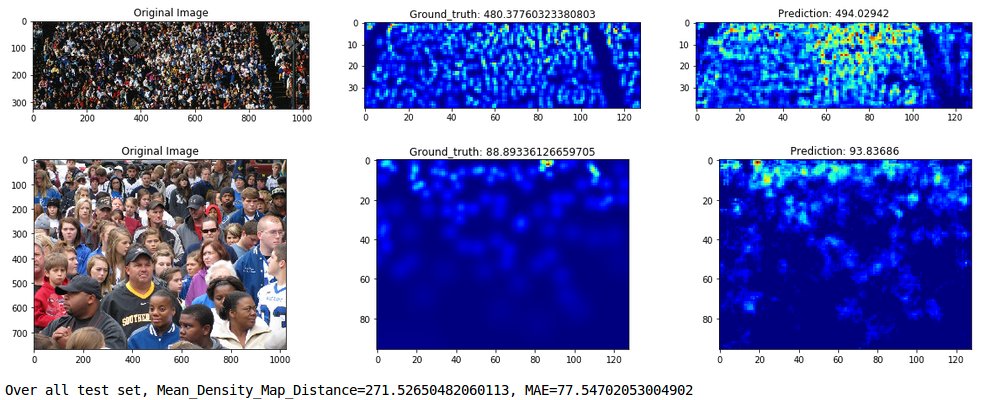
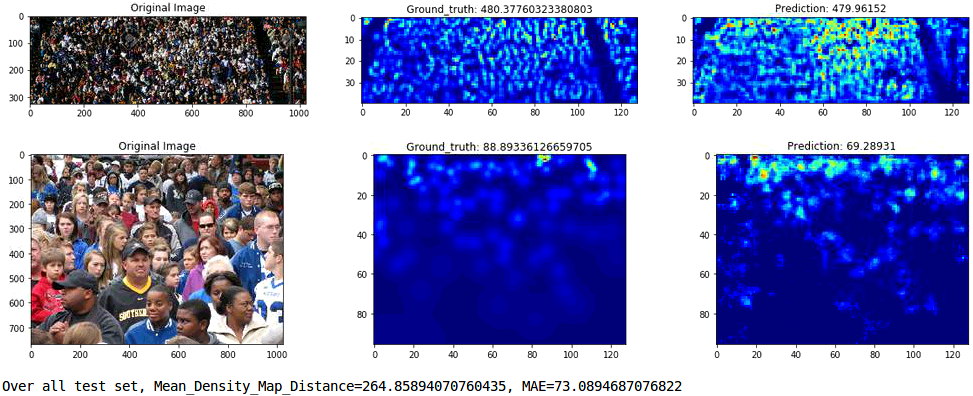
Well trained model on dataset B, while that on dataset A still needs improving

diff --git a/README.md b/README.md
@@ -39,7 +39,9 @@
 
 ![res_B](images/res_B.png)
 
+| Dataset | Mean_density_map_distance |  MAE   |
+| :-----: | :-----------------------: | :----: |
+|    A    |          264.759          | 73.089 |
+|    B    |          77.987           | 10.610 |
 
-
-### Loss:
 
